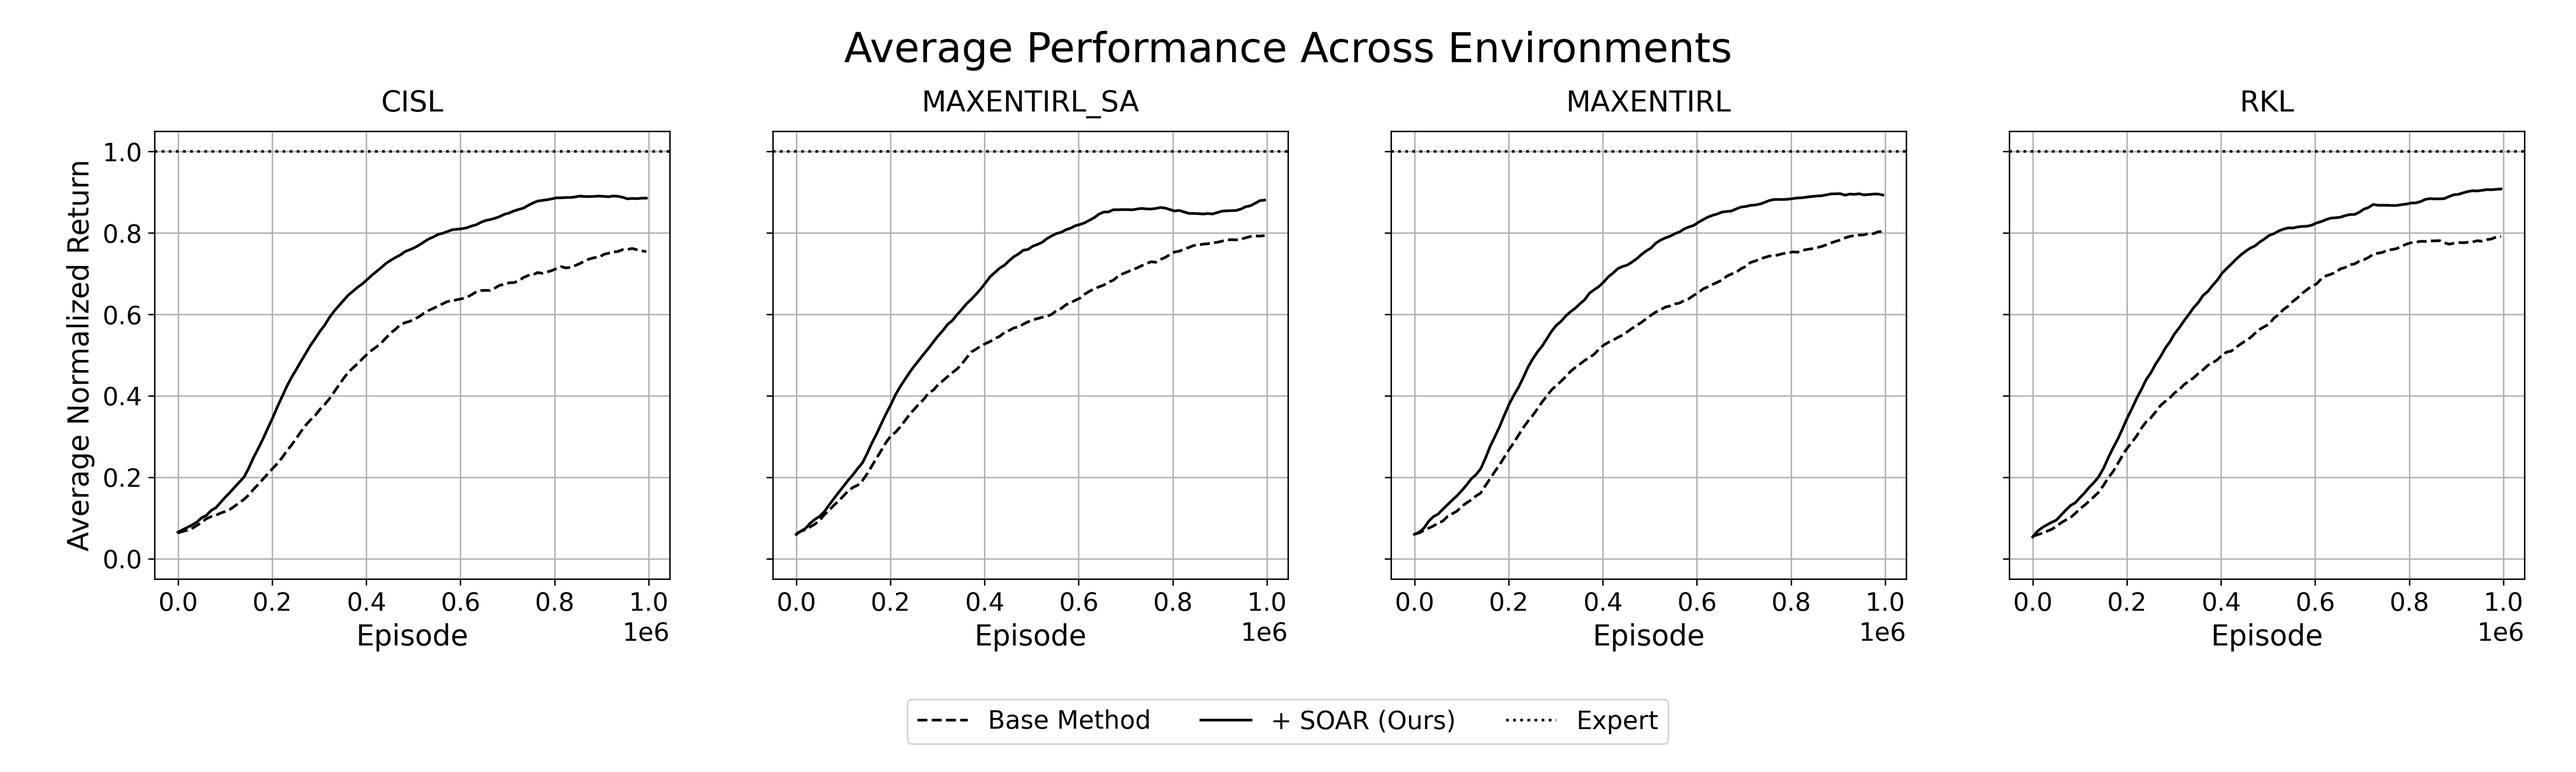
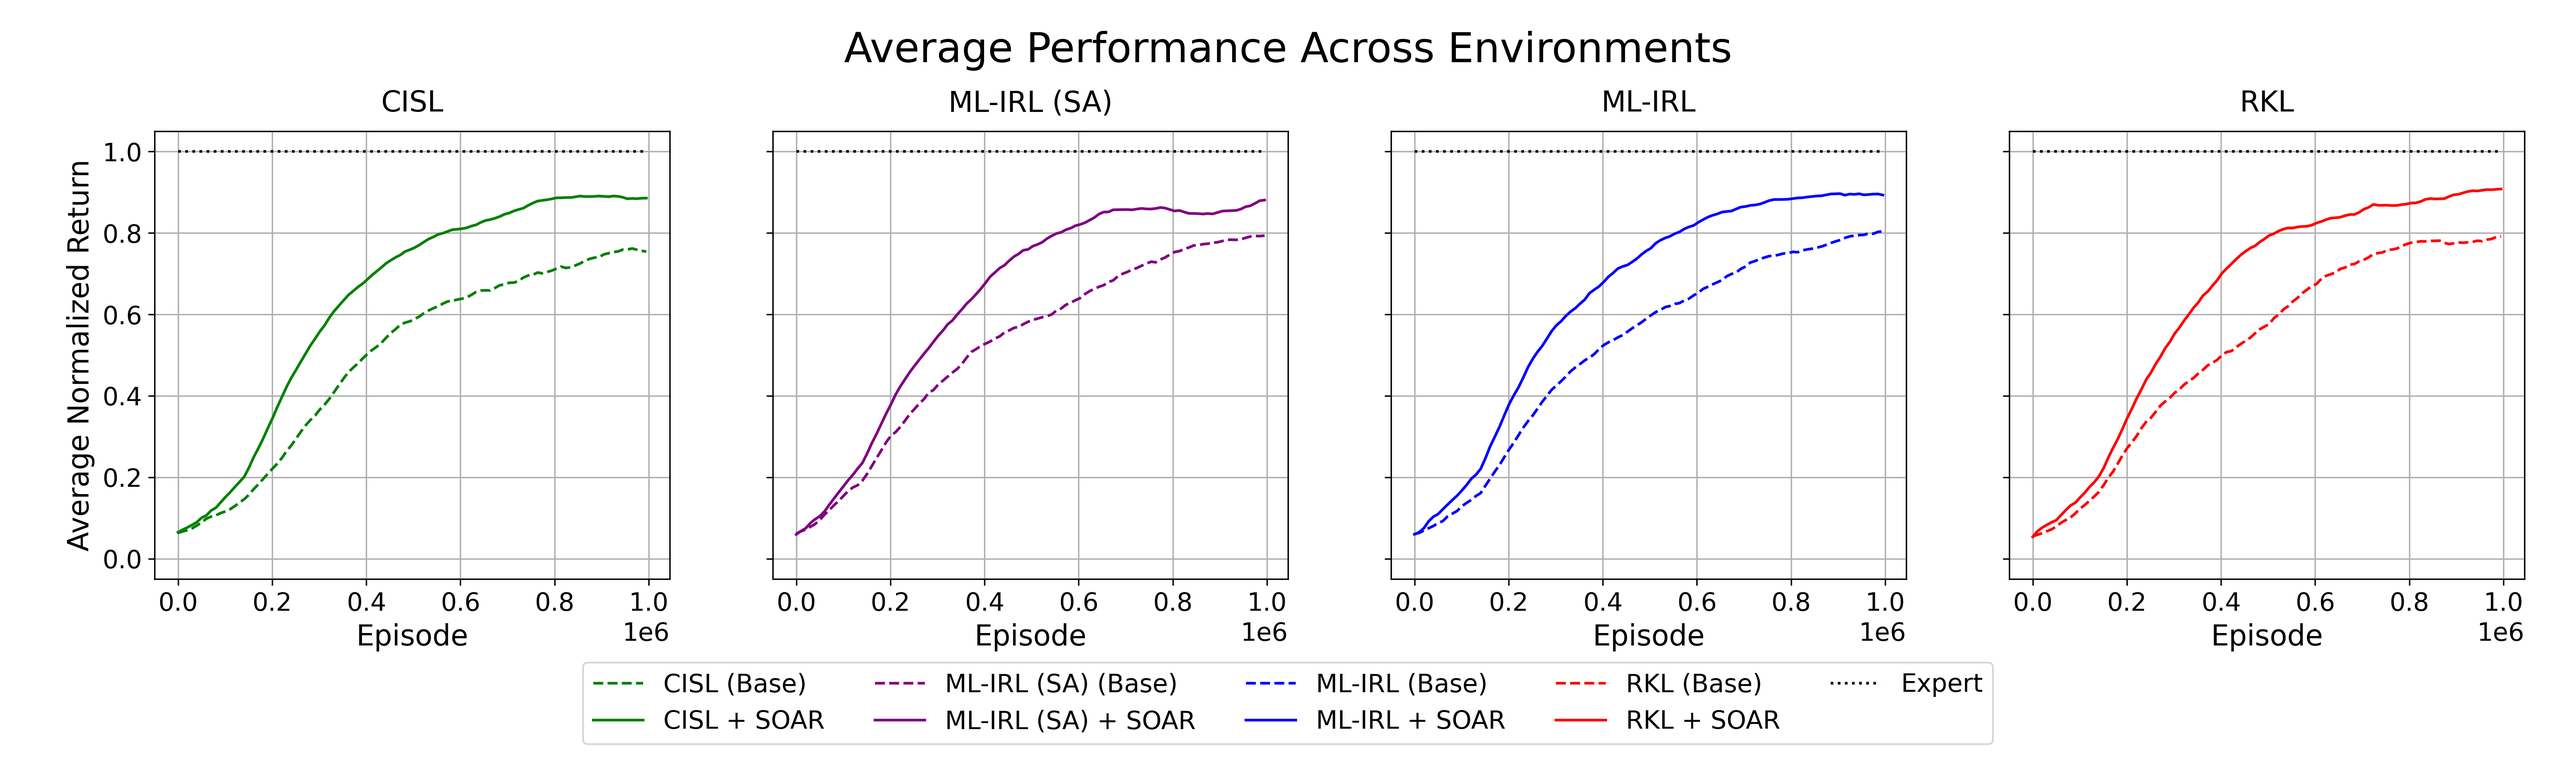
going back to cpu replay buffer

diff --git a/common/sac_irl_methods.py b/common/sac_irl_methods.py
@@ -25,111 +25,57 @@ def count_vars(module):
 
 class ReplayBuffer:
     """
-    A simple FIFO experience replay buffer for SAC agents, 
-    storing data in pinned memory for faster CPU->GPU transfers.
+    A simple FIFO experience replay buffer for SAC agents.
     """
+
     def __init__(self, obs_dim, act_dim, device=torch.device('cpu'), size=int(1e6)):
+        self.state = np.zeros(combined_shape(size, obs_dim), dtype=np.float32)
+        self.next_state = np.zeros(combined_shape(size, obs_dim), dtype=np.float32)
+        self.action = np.zeros(combined_shape(size, act_dim), dtype=np.float32)
+        self.reward = np.zeros(size, dtype=np.float32)
+        self.done = np.zeros(size, dtype=np.float32)
+        self.ptr, self.size, self.max_size = 0, 0, size
         self.device = device
-        self.max_size = size
-        self.ptr = 0
-        self.size = 0
-
-        # --- CHANGED: Use pinned Tensors instead of np arrays ---
-        self.state = torch.empty(
-            combined_shape(size, obs_dim), 
-            dtype=torch.float32, 
-            pin_memory=True
-        )
-        self.next_state = torch.empty(
-            combined_shape(size, obs_dim), 
-            dtype=torch.float32, 
-            pin_memory=True
-        )
-        self.action = torch.empty(
-            combined_shape(size, act_dim), 
-            dtype=torch.float32, 
-            pin_memory=True
-        )
-        self.reward = torch.empty(
-            size, 
-            dtype=torch.float32, 
-            pin_memory=True
-        )
-        self.done = torch.empty(
-            size, 
-            dtype=torch.float32, 
-            pin_memory=True
-        )
-
-        self.rng = np.random.RandomState()
-
-    def set_seed(self, seed):
-        """Set seeds for reproducibility."""
-        self.rng = np.random.RandomState(seed)
-        torch.manual_seed(seed)
+        # print(device)
 
     def store_batch(self, obs, act, rew, next_obs, done):
-        """
-        Store a batch of transitions. 
-        obs, next_obs, act, rew, done can be NumPy arrays.
-        """
         num = len(obs)
-        # Figure out if we wrap around the buffer
-        end = self.ptr + num
-        wrap = end > self.max_size
-        idx = np.arange(self.ptr, self.ptr + num) % self.max_size
+        full =  self.ptr + num > self.max_size
+        if not full:
+            self.state[self.ptr: self.ptr + num] = obs
+            self.next_state[self.ptr: self.ptr + num] = next_obs
+            self.action[self.ptr: self.ptr + num] = act
+            self.reward[self.ptr: self.ptr + num] = rew
+            self.done[self.ptr: self.ptr + num] = done
+            self.ptr = self.ptr + num
+        else:
+            idx = np.arange(self.ptr,self.ptr+num)%self.max_size
+            self.state[idx] = obs
+            self.next_state[idx]=next_obs
+            self.action[idx]=act
+            self.reward[idx]=rew
+            self.done[idx]=done
+            self.ptr= (self.ptr+num)%self.max_size            
 
-        # --- CHANGED: Copy NumPy -> pinned Tensors ---
-        # Convert input (NumPy) to Torch on CPU, then copy:
-        self.state[idx].copy_(torch.from_numpy(obs).float())
-        self.next_state[idx].copy_(torch.from_numpy(next_obs).float())
-        self.action[idx].copy_(torch.from_numpy(act).float())
-        self.reward[idx].copy_(torch.from_numpy(rew).float())
-        self.done[idx].copy_(torch.from_numpy(done).float())
-
-        # Move pointer
-        self.ptr = (self.ptr + num) % self.max_size
         self.size = min(self.size + num, self.max_size)
 
     def store(self, obs, act, rew, next_obs, done):
-        """
-        Store a single transition. 
-        obs, next_obs, act, rew, done can be NumPy arrays or scalars.
-        """
-        idx = self.ptr
-
-        self.state[idx].copy_(torch.from_numpy(np.array(obs)).float())
-        self.next_state[idx].copy_(torch.from_numpy(np.array(next_obs)).float())
-        self.action[idx].copy_(torch.from_numpy(np.array(act)).float())
-        self.reward[idx].fill_(rew)
-        self.done[idx].fill_(done)
-
-        self.ptr = (self.ptr + 1) % self.max_size
+        self.state[self.ptr] = obs
+        self.next_state[self.ptr] = next_obs
+        self.action[self.ptr] = act
+        self.reward[self.ptr] = rew
+        self.done[self.ptr] = done
+        self.ptr = (self.ptr+1) % self.max_size
         self.size = min(self.size+1, self.max_size)
 
     def sample_batch(self, batch_size=32):
-        """
-        Return a batch of data from pinned memory. 
-        Using 'non_blocking=True' can speed up the GPU transfer.
-        """
-        idxs = self.rng.randint(0, self.size, size=batch_size)
-
-        # Just slice the pinned tensors
-        batch = dict(
-            obs = self.state[idxs],
-            obs2 = self.next_state[idxs],
-            act = self.action[idxs],
-            rew = self.reward[idxs],
-            done = self.done[idxs],
-        )
-
-        # Transfer to the GPU (or CPU) with non_blocking=True:
-        # (non_blocking=True only helps if the tensor is in pinned memory)
-        return {
-            k: v.to(self.device, non_blocking=True) 
-            for k, v in batch.items()
-        }
-
+        idxs = np.random.randint(0, self.size, size=batch_size)
+        batch = dict(obs=self.state[idxs],
+                     obs2=self.next_state[idxs],
+                     act=self.action[idxs],
+                     rew=self.reward[idxs],
+                     done=self.done[idxs])
+        return {k: torch.as_tensor(v, dtype=torch.float32).to(self.device) for k,v in batch.items()}
 
 
 class SAC:

diff --git a/plots/plot_average_envs.py b/plots/plot_average_envs.py
@@ -25,6 +25,14 @@ ENVIRONMENTS = [
 
 METHODS = ["cisl", "maxentirl_sa", "maxentirl", "rkl"]
 
+# Add display name mapping for methods
+METHOD_DISPLAY_NAMES = {
+    "maxentirl": "ML-IRL",
+    "maxentirl_sa": "ML-IRL (SA)",
+    "cisl": "CISL",
+    "rkl": "RKL"
+}
+
 METHOD_COLORS = {
     "maxentirl": "blue",
     "rkl": "red",
@@ -42,6 +50,7 @@ EXPERT_FILE_DICT = {
     "Walker2d-v5": "expert_data/meta/Walker2d-v5_1.txt",
     "Humanoid-v5": "expert_data/meta/Humanoid-v5_1.txt",
 }
+
 
 MAX_EPISODES_DICT = {
     "Hopper-v5": 1e6,
@@ -144,10 +153,10 @@ def get_normalized_data_for_method_env(env_name, method_name):
     return df_mean_std, (best_q, best_clip)
 
 # [Previous imports and constant definitions remain the same...]
-
 def plot_method_average(method, ax):
     """Plot average performance across environments for a specific method."""
     color = METHOD_COLORS.get(method, "black")
+    display_name = METHOD_DISPLAY_NAMES.get(method, method.upper())
     
     # Collect data for all environments
     q1_data_list = []
@@ -190,8 +199,8 @@ def plot_method_average(method, ax):
             avg_returns.append(np.mean(returns))
             
         smoothed_returns = pd.Series(avg_returns).rolling(SMOOTHING_WINDOW, min_periods=1).mean()
-        line, = ax.plot(ep_range, smoothed_returns, linestyle='--', color='black', 
-                       label='Base Method' if method == METHODS[0] else "_nolegend_")
+        line, = ax.plot(ep_range, smoothed_returns, linestyle='--', color=color, 
+                       label=f'{display_name} (Base)')
     
     if best_data_list:
         # Interpolate and average best data
@@ -208,15 +217,17 @@ def plot_method_average(method, ax):
             avg_returns.append(np.mean(returns))
             
         smoothed_returns = pd.Series(avg_returns).rolling(SMOOTHING_WINDOW, min_periods=1).mean()
-        ax.plot(ep_range, smoothed_returns, linestyle='-', color='black',
-               label='+ SOAR (Ours)' if method == METHODS[0] else "_nolegend_")
+        ax.plot(ep_range, smoothed_returns, linestyle='-', color=color,
+               label=f'{display_name} + SOAR')
     
-    # Add expert line (only add to legend for first plot)
-    ax.axhline(y=1.0, color='black', linestyle=':', 
-               label='Expert' if method == METHODS[0] else "_nolegend_")
+    # Add expert line with label only for first method
+    if method == METHODS[-1]:
+        ax.plot([min_ep, max_ep], [1.0, 1.0], color='black', linestyle=':', label='Expert')
+    else:
+        ax.plot([min_ep, max_ep], [1.0, 1.0], color='black', linestyle=':', label=None)
     
-    # Add decorations
-    ax.set_title(f"{method.upper()}", y=1.02)
+    # Add decorations with the display name instead of the method name
+    ax.set_title(f"{display_name}", y=1.02)
     ax.set_xlabel("Episode")
     ax.set_ylim(-0.05, 1.05)
     ax.grid(True)
@@ -244,11 +255,31 @@ def main():
         fontsize=23
     )
     
-    # Create simplified legend
+    # Collect all legend handles and labels
+    handles = []
+    labels = []
+    for ax in axes:
+        h, l = ax.get_legend_handles_labels()
+        handles.extend(h)
+        labels.extend(l)
+    
+    # Remove duplicate expert entries
+    unique_handles = []
+    unique_labels = []
+    seen_labels = set()
+    for h, l in zip(handles, labels):
+        if l not in seen_labels:
+            unique_handles.append(h)
+            unique_labels.append(l)
+            seen_labels.add(l)
+    
+    # Create combined legend
     fig.legend(
+        unique_handles,
+        unique_labels,
         loc='lower center',
         bbox_to_anchor=(0.5, 0.02),
-        ncol=3
+        ncol=5  # Adjust this number based on how many methods you have
     )
     
     # Save the figure
@@ -257,6 +288,8 @@ def main():
     out_path = out_dir / "method_averages_comparison.png"
     fig.savefig(out_path, dpi=300)
     print(f"Saved combined figure to {out_path}")
+
+
 
 if __name__ == "__main__":
     main()

diff --git a/plots/plot_q_bestclip_baselines.py b/plots/plot_q_bestclip_baselines.py
@@ -27,8 +27,8 @@ ENVIRONMENTS = [
 ]
 
 # Methods (two lines each: q=1 [dashed], best q [solid])
-# METHODS = ["cisl", "maxentirl_sa"]
-METHODS = ["maxentirl", "rkl"]
+METHODS = ["cisl", "maxentirl_sa"]
+# METHODS = ["maxentirl", "rkl"]
 
 # Baselines (one line each: dash-dot)
 # BASELINES = ["gail", "sqil"]
@@ -212,6 +212,8 @@ def plot_environment(env_name: str, ax: plt.Axes, idx: int):
         # find best
         auc_df = compute_auc(df_mean_std, use_trapz=True)
         best_q, best_clip = find_best_clipping(auc_df, skip_q=1.0)
+
+        print(f"  {method}: Best q={best_q}, clip={best_clip}")
         
         method_results[method] = df_mean_std
         method_best[method] = (best_q, best_clip)
